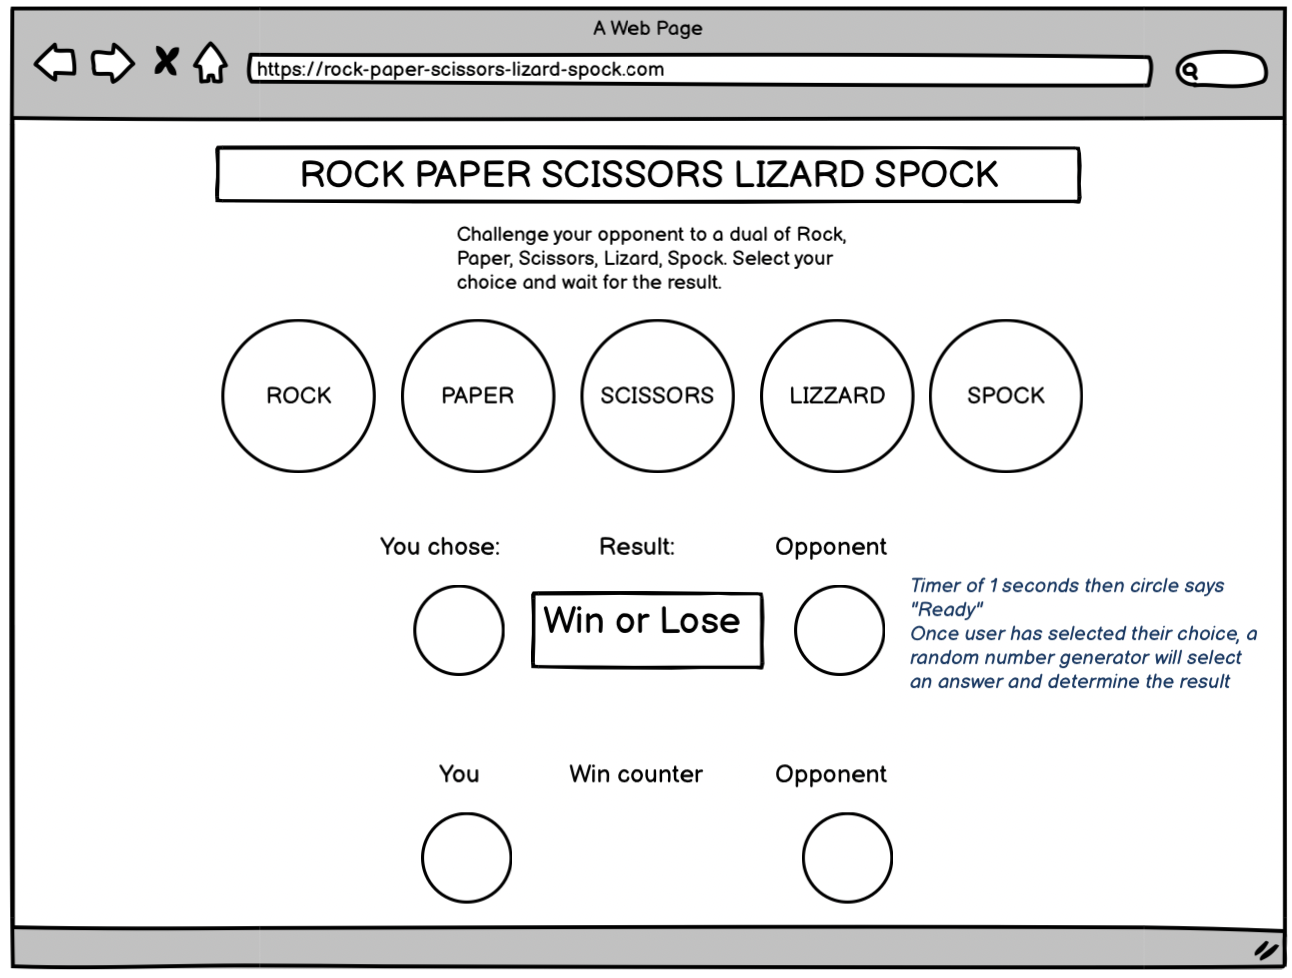
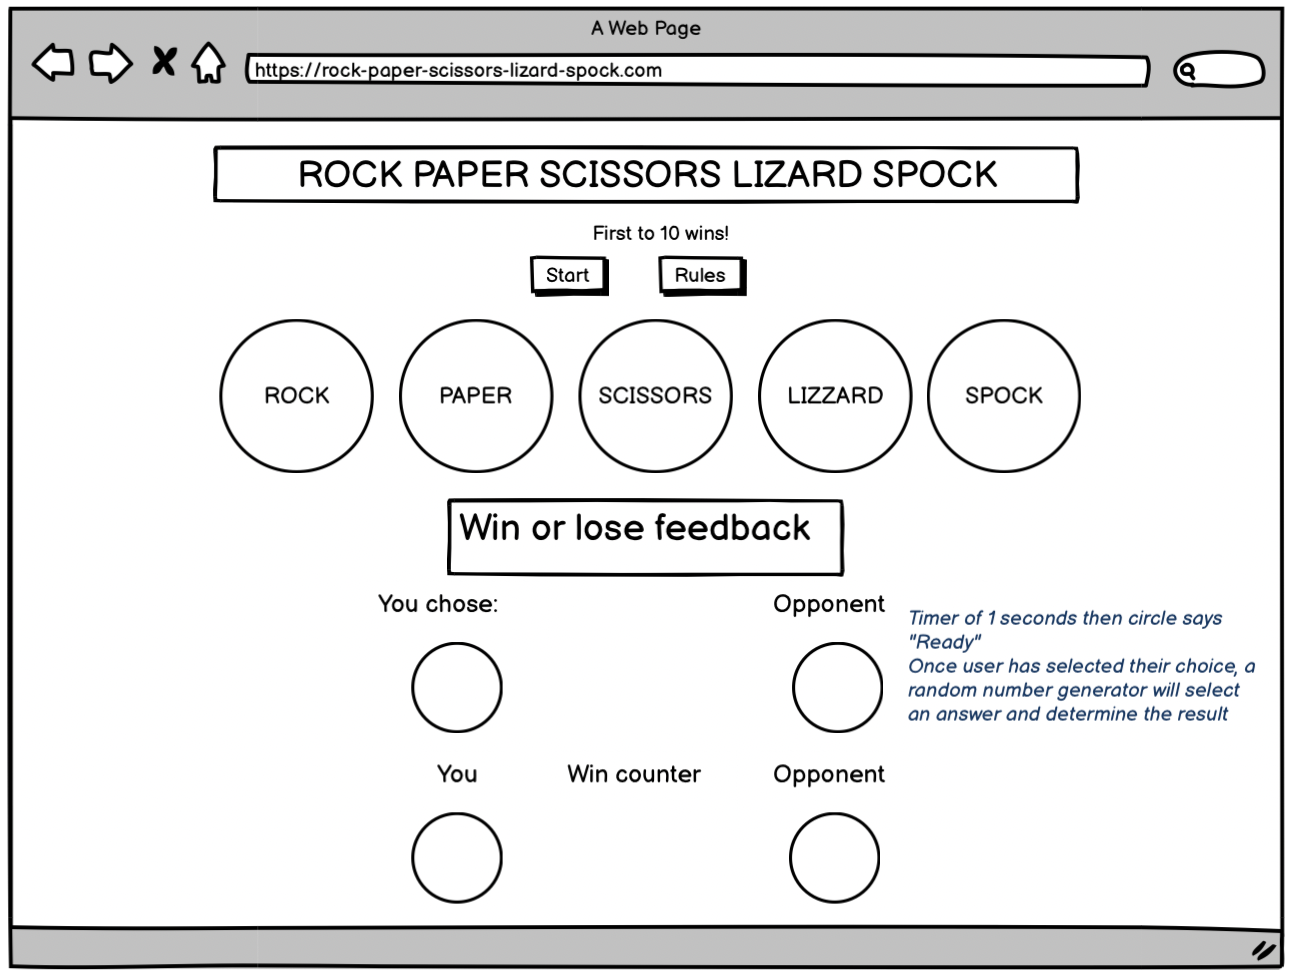
ReadMe updates

diff --git a/index.html b/index.html
@@ -4,11 +4,11 @@
     <meta charset="UTF-8">
     <meta http-equiv="X-UA-Compatible" content="IE=edge">
     <meta name="viewport" content="width=device-width, initial-scale=1.0">
-    <meta name="description" content="Rock, Paper, Scissors, Lizard, Spock online game" />
-    <meta name="keywords" content="Game, Big Bang Theory, Sam Kass, RPSLS" />
+    <meta name="description" content="Rock, Paper, Scissors, Lizard, Spock online game">
+    <meta name="keywords" content="Game, Big Bang Theory, Sam Kass, RPSLS">
     <link rel="stylesheet" href="assets/css/style.css">
     <title>Rock, Paper, Scissors, Lizard, Spock</title>
-    <link rel="icon" type="image/x-icon" href="assets/images/Tab_icon.png" />
+    <link rel="icon" type="image/x-icon" href="assets/images/Tab_icon.png">
 </head>
 <body>
     <h1>Rock, Paper, Scissors, Lizard, Spock</h1>
@@ -24,7 +24,9 @@
         <button id="reset" aria-label="Click to reset the game">Reset</button>  
     </span>
     <span id="rule-button">
-        <button><a href="rules.html" aria-label="Click to access the rules page, opens in new tab" target= _blank>Rules</a></button>
+        <a href="rules.html" aria-label="Click to access the rules page, opens in new tab" target= _blank>
+            <button>Rules</button>
+        </a>
     </span>
 </div>
 <div id="choose-area">

diff --git a/rules.html b/rules.html
@@ -6,7 +6,7 @@
     <meta name="viewport" content="width=device-width, initial-scale=1.0">
     <link rel="stylesheet" href="assets/css/style.css">
     <title>Rock, Paper, Scissors, Lizard, Spock</title>
-    <link rel="icon" type="image/x-icon" href="assets/images/Tab_icon.png" />
+    <link rel="icon" type="image/x-icon" href="assets/images/Tab_icon.png">
 </head>
 <body>
     <h1>Rock, Paper, Scissors, Lizard, Spock</h1>

diff --git a/README.md b/README.md
@@ -1,54 +1,55 @@
 # Rock Paper Scissors Lizard Spock
 
-This website has been based on the Rock, Paper, Scissors, Lizard, Spock game originally created by Sam Kass. Fans of the Big Bang Theory television series will recognise this game as it features in their episodes. This site provides an interactive version of the game where users can play against the computer with the goal of being the first to 10 wins. 
+This website has been based on the Rock, Paper, Scissors, Lizard, Spock game originally created by Sam Kass. Fans of the Big Bang Theory television series will recognise this game as it features in several episodes. This site provides an interactive version of the game where users can play against the computer with the goal of being the first to 10 wins. 
 
 The website has been made to complete the second project within the Code Institute Full Stack Developer course and focuses predominately on the use of the Java Script language. It also uses HTML5 and CCS3 for the structure of the site being built in a way that allows it to be responsive across a range of devices. 
 
-[am I responsive]
+![Am I responsive? for Rock, Paper, Scissors, Lizard, Spock game website](/assets/readMe-images/RPSLS_responsive.png)
 
 
-Link to live project: 
+Link to live project: https://tr94.github.io/rock-paper-scissors-lizard-spock/
 
-## User Experience
+# User Experience
 
 The target audience for this site are fans of the Big Bang Theory who will already be familiar with the game from watching the television series. This site is intended to allow them to play the game, as seen on television, against a randomised computer output. 
 
 The user goals for new and returning users are the same:
-As a user, I want to play the game as seen in the television show
-As a user, I want the game to have a goal to aim for with a tally of scores
-As a new user, I want be reminded of the rules of the game
+- As a user, I want to play the game as seen in the television show
+- As a user, I want the game to have a goal to aim for with a tally of scores
+- As a new user, I want be reminded of the rules of the game
 
-## Development Planes
+# Development Planes
 
-To develop the site in a structured manner for the 5 development planes have been considered. Working through these in a systematic manner allows the key building blocks of the site to be in place before fine tuning the aesthetics. Working methodically in this way should result in the initial release being much closer to the final desired output. 
+To develop the site in a structured manner the 5 development planes have been considered. Working through these in a systematic manner allows the key building blocks of the site to be in place before fine tuning the aesthetics. Working methodically in this way should result in the initial release being much closer to the final desired output. 
 
-### Strategy
+## Strategy
 
 There are no commercial drivers for this website, it’s pure focus is to provide an interactive game for fans of the Big Bang Theory series. Therefore the only strategic requirements for the site are to ensure the user has an authentic gaming experience which:
-is accurate to the rules of the game
-Feels genuine I.e; computer opponent is fair
-Is interactive and engaging 
+- Is accurate to the rules of the game
+- Feels genuine I.e; computer opponent is fair
+- Is interactive and engaging
 
-### Scope
+## Scope
 
 Defining the scope at this early stage allows the development work to stay focused, it agrees what is on and off the table for the initial release. 
 
 Based on the user experience and strategy above, the content requirements are:
-A reminder of the rules of the game 
-A game area for the user to interact with
-A goal for the user to work towards 
-A score counter for the user to being to track against the goal
+- A reminder of the rules of the game 
+- A game area for the user to interact with
+- A goal for the user to work towards 
+- A score counter for the user to being to track against the goal
+- Feedback for the result of each round
 
-### Structure
+## Structure
 The structure of this site is very simple:
-Game page; will hold the game content  
-Rules page; linked from the home page and opens in a new tab. A static page showing the rules
+- Game page; will hold the game content  
+- Rules page; linked from the home page and opens in a new tab. A static page showing the rules
 
 ![Site Map for Rock, Paper, Scissors, Lizard, Spock game website](/assets/readMe-images/RPSLS_Structure.png)
 
-### Skeleton
+## Skeleton
 
-In order to visualise the pages, the content has been mocked up using wireframes. Using wireframes at this stage of the development allows the freedom to be creative with design without being tied into the code. This gives a flavour of how the page(s) will look and can be easily modified until agreement is reached. 
+In order to visualise the pages, the content has been mocked up using wireframes. Using wireframes at this stage of the development allows the freedom to be creative without being tied into the code. This gives a flavour of how the page(s) will look and can be easily modified until agreement is reached. 
 
 Balsamiq was used to create the wireframes: 
 
@@ -60,25 +61,47 @@ Rules page:
 
 ![Rules page wireframe for Rock, Paper, Scissors, Lizard, Spock game](/assets/readMe-images/RPSLS_Rules.png)
 
-At this stage, the wireframes are reviewed against the original goals and strategy for the site. It is important to check the design is fit for purpose before committing to the coding process. For this site the review showed the design to meet the requirements and therefore was ok to proceed. 
+At this stage, the wireframes are reviewed against the original goals and strategy for the site. It is important to check the design is fit for purpose before committing to the coding process. 
 
-###Surface:
+Review against the content requirements: 
+A reminder of the rules of the game:
+- Adding the rules into the main game would have distracted from the game and made the page quite busy. Button added which opens a new tab and displays the rules for users that need a reminder.
+A game area for the user to interact with:
+- Clear instructions will be given on how to operate the game, pseudo styling will indicate action to the user. 
+A goal for the user to work towards:
+- First to 10 wins is the clear goal for this game
+A score counter for the user to being to track against the goal:
+- Score counter included at the bottom of the page to keep track against the goal
+Feedback for the result of each round:
+- "Win or Lose" box will display the result of each round such as "paper covers rock".
+
+For this site the review showed the design to meet the requirements and therefore agreement was made to proceed. 
+
+## Surface:
 Once the structure and wireframe have been agreed, the look and feel of the site can be developed. This may need to align to branding but in the case of this site there are no commercial requirements. 
 
-#### Colour
+Based on the Big Bang Theory and science themes along with Sci-Fi Spock influence, the styling for this site is a space/sci-fi theme. 
+
+### Colour
+The over-arching colour for the background is an off-grey which feels modern and perhaps a little industrial like a space ship. 
+
+The hover colours for each button as carried through from the image explaining the game rules (hyperlinked "rules" button). This image was taken from an internet search so the styling was not under the control of this project however keeping the colours consistent throughout helps it feel part of the overal design. 
+
+The results feedback box uses simple colours to denote win (green) and lose (red) which is easily understandable to the player. 
+
+### Font
+Google Fonts was used to find a font pairing that portrays a Sci-Fi theme.
+
+"Orbitron" was recommended for this and, using Font-Joy it was paired with "Prompt". Orbitron gives a heavy title which is bold and clear whilst Prompt is easier to read for the body of the website. 
+
+### Images and Icons
+The imagery for this website has been kept deliberately simple to not distract from the game. The player choice buttons has been imaged with the hand signals for each option, more realistic images of the options could have been used but it was decided to keep the game feeling more like something you would play in the playground with an opponent. 
+
+The icon for the tab title mirrors this using a hand "fist" just like you're playing face to face with your opponent. The icon was sourced from Font Awesome.
 
 
-#### Font
 
-
-#### Images
-
-
-#### Icons
-
-
-
-### Features: 
+## Features: 
 
 
 Technologies used:
@@ -91,7 +114,7 @@ Java Script
 
 External resources: 
 
-## Accessibility: 
+# Accessibility: 
 
 Considering how to make a website is accessible to all users should be high on the list of priorities during development. For this site the following aspects have been incorporated:
 Alt labels on the images/buttons
@@ -99,17 +122,19 @@ Aria label on the “rules page” link
 
 Within Google Developer tools, Lighthouse is a way of measuring the accessibility of a website. For this site the report shows as below:
 
-[ADD LIGHTHOUSE REPORT]
+![Lighthouse scores for Rock, Paper, Scissors, Lizard, Spock game](/assets/readMe-images/RPSLS_lighthouse.png)
 
-## Testing
+# Testing
 
-## Bugs
+# Bugs
 
-## Deployment
+# Deployment
 
 This project was developed using Code Anywhere and all updates were committed to GitHub to keep track of changes and store the code. The website is deployed using GitHub Pages which provides a published link to the live site. 
 
-### Credits 
+Live site: https://tr94.github.io/rock-paper-scissors-lizard-spock/
+
+## Credits 
 
 ### Media:
 
